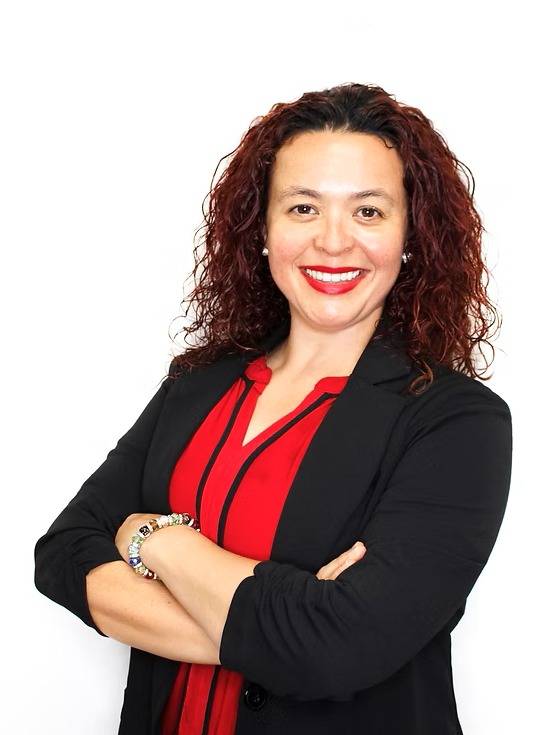
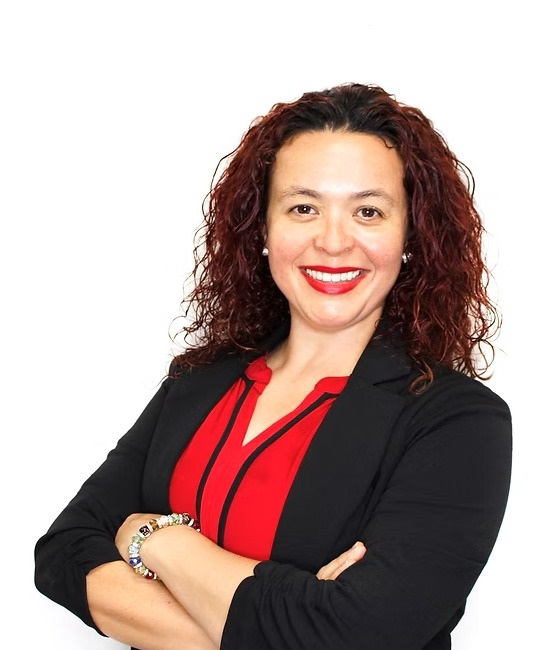
first commit

diff --git a/styles.css b/styles.css
@@ -107,7 +107,7 @@ a {
   color: var(--white);
   background: var(--charcoal);
 }
-**Escritorio
+
 .hero-bg {
   position: absolute;
   inset: 0;